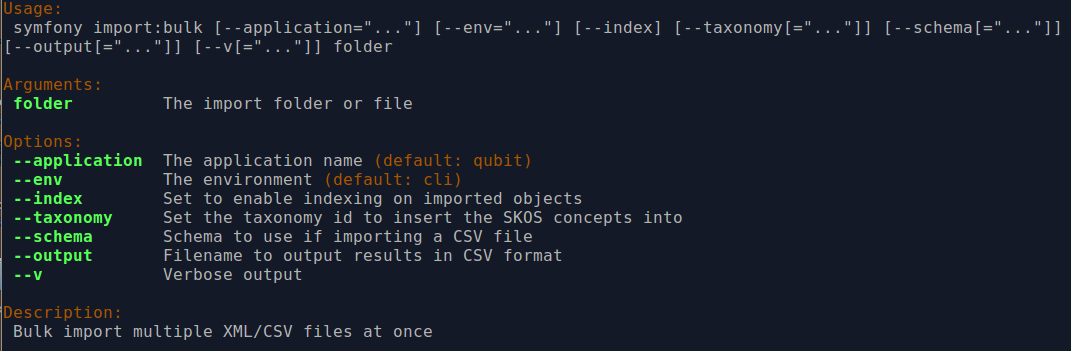
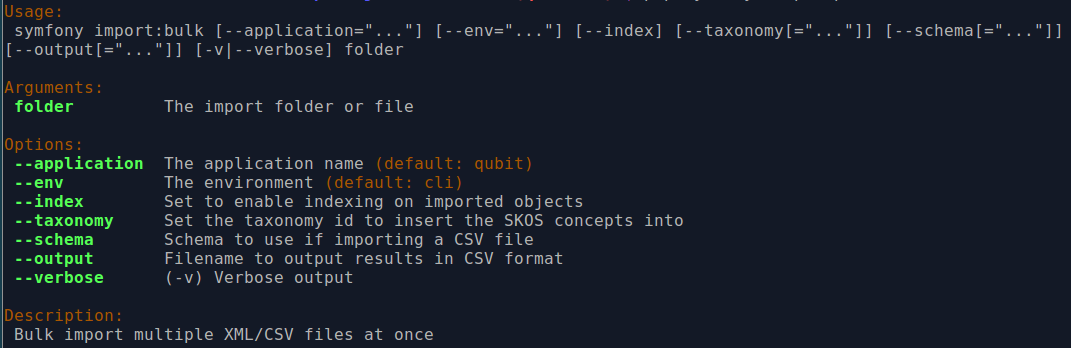
update cli-tools

diff --git a/admin-manual/maintenance/cli-tools.rst b/admin-manual/maintenance/cli-tools.rst
@@ -527,7 +527,40 @@ from AtoM's root directory, run:
 However, if you would like to index the import as it progresses, the
 ``--index`` option can be used to enable this.
 
-The ``--taxonomy`` option is only available in AtoM 2.1 and later releases.
+The ``--taxonomy`` option is used to assist in the import of SKOS xml files,
+such as :term:`places <place>` and :term:`subjects <subject>`, ensuring that
+the :term:`terms <term>` are imported to the correct :term:`taxonomy`. As
+input, the ``--taxonomy`` option takes a taxonomy ID - these are permanent
+identifiers used internally in AtoM to manage the various taxonomies, which
+can be found in AtoM in ``/lib/model/QubitTaxonomy.php`` (see on GitHub
+:at-gh:`here <lib/model/QubitTaxonomy.php#L20>`).
+
+**Example use:** Importing terms to the Places taxonomy
+
+.. code-block:: bash
+
+   php symfony import:bulk --taxonomy="42" /path/to/mySKOSfiles
+
+**Example use:** Importing terms to the Subjects taxonomy
+
+.. code-block:: bash
+
+   php symfony import:bulk --taxonomy="35" /path/to/mySKOSfiles
+
+Below is a list of some of the more commonly used taxonomies in AtoM, and
+their IDs. This list is NOT comprehensive - to see the full list, navigate to
+``/lib/model/QubitTaxonomy.php``, or visit the Github link above.
+
+=================================== ===
+Taxonomy name                       ID
+=================================== ===
+ Places                             42
+ Subjects                           35
+ Level of description               34
+ Actor entity type (ISAAR)          32
+ Thematic area (repository)         72
+ Geographic subregion (repository)  73
+=================================== ===
 
 The ``--output`` option will generate a simple CSV file containing details of
 the import process, including the time elapsed and memory used during each
@@ -538,12 +571,20 @@ CSV file to output. For example:
 
    php symfony import:bulk --output="/path/to/output-results.csv" /path/to/my/xmlFolder
 
-The CSV contains 3 columns. The first will simply list a progressive import
-number (e.g. 1, 2, 3...). The second indicates the time elapsed during the
-import of that XML file, in seconds, while the third column indicates the
-memory used during the XML import, in bytes.
+The CSV contains 3 columns. The first (titled "File" in the first row) will
+list the path and filename of each imported file. The second column (titled
+"Time elapsed (secs)" in the first row) indicates the time elapsed during the
+import of that XML file, in seconds, while the third column (titled "Memory
+used") indicates the memory used during the XML import of that file, in bytes.
+Also included, at the bottom of the CSV, are two summary rows: Total time
+elapsed (in seconds), and Peak memory usage (in megabytes).
 
-The ``--v`` option will return a more verbose output as each import is
+.. image:: images/bulk-import-output-example.*
+   :align: center
+   :width: 60%
+   :alt: an example of the CSV output after an import using the output option
+
+The ``--verbose`` option will return a more verbose output as each import is
 completed. Normally, after the import completes, a summary of the number of
 files imported, the time elapsed, and the memory used:
 
@@ -559,7 +600,7 @@ elapsed in seconds, and [z] is the memory used in bytes.
    :width: 80%
    :alt: an example of the summary output after an import
 
-If the ``--v`` command-line option is used (or just ``-v`` for short),
+If the ``--verbose`` command-line option is used (or just ``-v`` for short),
 the task will output summary information for each XML file imported, rather
 than a total summary. The summary information per file includes file name,
 time elapsed during import ( in seconds), and its position in the total count
@@ -576,20 +617,6 @@ number and [z] is the total number of files to be imported.
    :align: center
    :width: 80%
    :alt: an example of the verbose output after an import via the CLI
-
-.. IMPORTANT::
-
-   In 2.0.1 and earlier releases, the verbose option requires a parameter. We
-   suggest simply entering 1 as the parameter as this has been tested - e.g.
-   ``--v=1``, as in the following example:
-
-   .. code-block:: bash
-
-      php symfony import:bulk --v=1 /path/to/my/importFolder
-
-   Note that in 2.1 and later this has been corrected - you can use the flag
-   without a parameter as either ``--verbose`` or ``-v`` for short. The 2.1
-   documentation will be updated to reflect this.
 
 .. _common-atom-queries:
 
